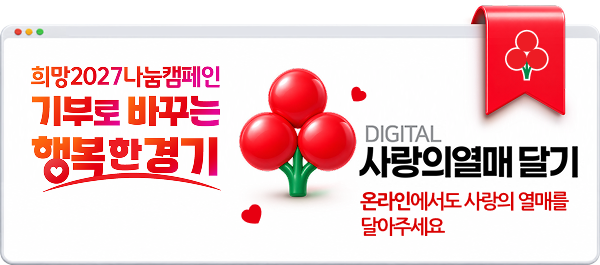
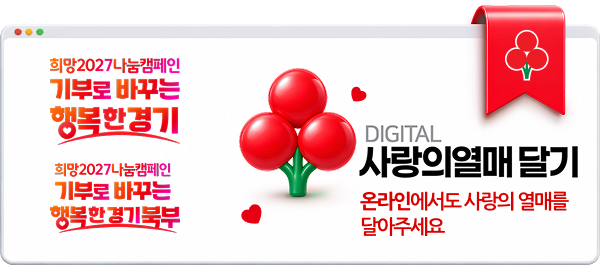
commit-1119-2

Changed region(s): [[0.03, 0.2113, 0.39, 0.8755], [0.33, 0.6943, 0.36, 0.7245]]

diff --git a/css/campaign_2027.css b/css/campaign_2027.css
@@ -250,7 +250,7 @@ html{ overflow-x:hidden; }
 
 .hero-content{
   position: fixed; width:320px; display: flex; flex-direction: column; gap: 10px;
-  right: calc(50% - 680px); bottom: calc(50% - 300px);
+  right: calc(50% - 680px); top: calc(50% - 240px);
   >.panel {
     position: relative; width:100%; border-radius: 12px; font-weight: 700;
     font-size: 20px; padding: 28px 32px; background-color: white;
@@ -286,10 +286,13 @@ html{ overflow-x:hidden; }
   }
   >.panel-banner{
     padding: 0; background-color: transparent;
-    a{
-      display: block; width:100%;
-      >img { max-width: 100%;}
-    }  
+    #banner-branch{ max-width: 100%;}
+    >.panel-banner-wrap{
+      width:100%; display: flex; flex-direction: column;
+      gap: 8px;
+      >.banner-optional{
+        display: none;
+      }    }
   }
   >.btn-goto-down{ 
     outline: none; border: 1px solid transparent; display: flex;

diff --git a/campaign_2027_home.html b/campaign_2027_home.html
@@ -103,9 +103,9 @@
           </div>
         </div>
         <div class="panel panel-banner">
-          <a href="#">
+          <div class="panel-banner-wrap">
             <img src="./img/banner_center.png" id="banner-branch">
-          </a>
+          </div>
         </div>
         <button class="panel btn-goto-down">
           <span class="label">지역별 모금현황 보기</span>
